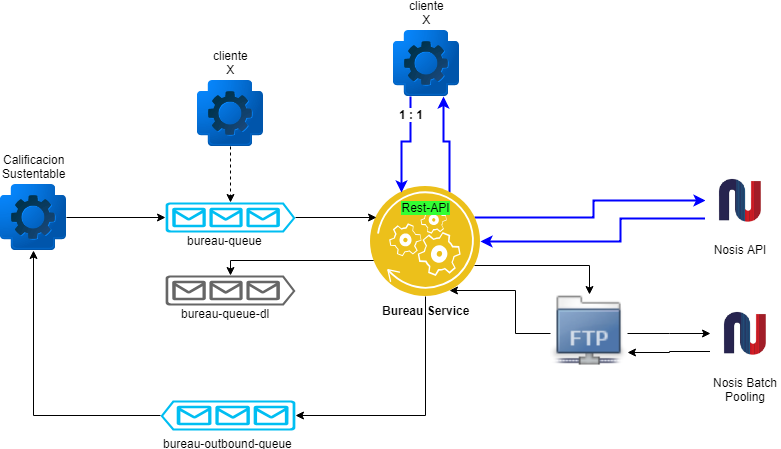
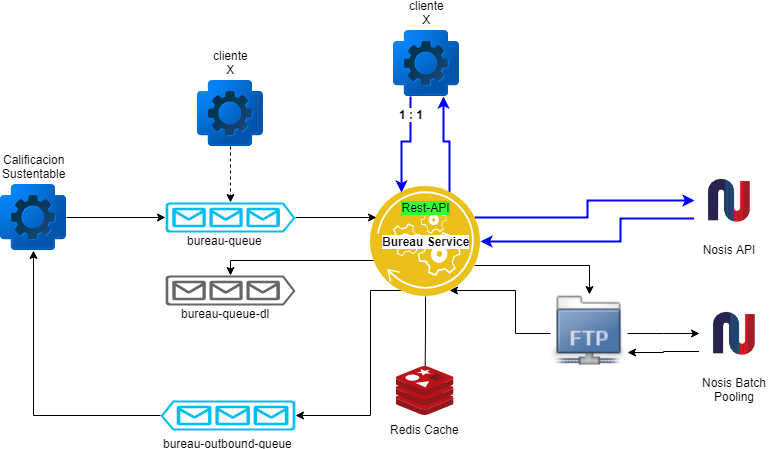
Readme updated

diff --git a/README.md b/README.md
@@ -22,14 +22,19 @@ $ java -jar bureau-service-0.0.1-SNAPSHOT.jar
 ```
 Publicar mensaje  
 ```sh
-curl --header "Content-Type: application/json" \
+$ curl --header "Content-Type: application/json" \
   --request POST \
-  --data '{"id":"1","payload":"prueba"}' \
+  --data '{"id": "3d7acfc2-ff58-11e8-8eb2-f2801f1b9fd1","cuit":"20341251220", "payload" : {"var1" : "someValue","var2" : "someValue2"}}' \
   http://localhost:8080/bureau/sendMessage
 ```
 En la consola de *bureau-service* se vera que el mensaje ha sido procesado:
 ```console
-Handling bureau message - id: 1, payload: prueba
+Handling bureau message - id: 3d7acfc2-ff58-11e8-8eb2-f2801f1b9fd1, cuit: 20341251220, payload: {var1=someValue, var2=someValue2}
+Accessing Nosis for id: 3d7acfc2-ff58-11e8-8eb2-f2801f1b9fd1, cuit: 20341251220
+```
+Si se emite un segundo llamado para el mismo request dentro de los primeros 10 segs (ver ttl en application.properties), la informacion sera obtenida desde Redis (cache). Por lo que en el log no vera el mensaje de acceso a Nosis:
+```console
+Handling bureau message - id: 3d7acfc2-ff58-11e8-8eb2-f2801f1b9fd1, cuit: 20341251220, payload: {var1=someValue, var2=someValue2}
 ```
 
 ### Prerequisitos
